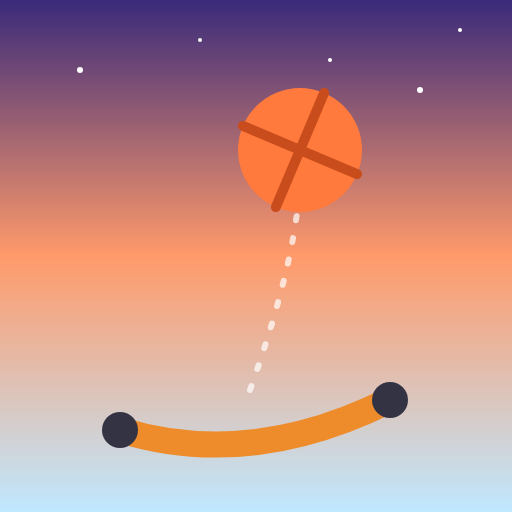
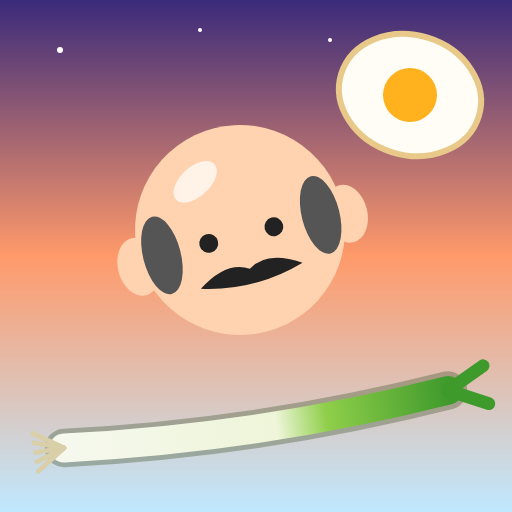
WIP: モチーフをおじさん・長ネギ・目玉焼きに
Claude-Session: https://claude.ai/code/session_018t3fjhh5BvRnQz3QrZFyHj

Changed region(s): [[0.2188, 0.0625, 0.9688, 0.7188], [0.0625, 0.6875, 0.9688, 0.9375], [0.0938, 0.0938, 0.125, 0.125]]

diff --git a/games/line-trampoline/index.html b/games/line-trampoline/index.html
@@ -141,7 +141,7 @@ if (!window.Matter) { $('err').style.display = 'flex'; throw new Error('matter')
 resize();
 
 const { Engine, Bodies, Body, Composite, Events } = Matter;
-const BALL_R = 14, PX_PER_M = 40;
+const BALL_R = 18, PX_PER_M = 40;
 let engine, walls, ball, line, rocks, camY, startY, maxH, state, nextRockY, drag, trail, pops;
 const best = () => store.get('best', 0);
 
@@ -280,8 +280,14 @@ function draw() {
   ctx.save(); ctx.translate(0, -camY);
   // rocks
   for (const r of rocks) {
-    ctx.beginPath(); r.vertices.forEach((v, i) => i ? ctx.lineTo(v.x, v.y) : ctx.moveTo(v.x, v.y)); ctx.closePath();
-    ctx.fillStyle = phase > 2 ? '#8a8aa8' : '#8b7a6b'; ctx.fill(); ctx.strokeStyle = 'rgba(0,0,0,.25)'; ctx.lineWidth = 3; ctx.stroke();
+    // fried egg: wobbly white through the polygon's edge midpoints, yolk in the middle
+    const vs = r.vertices, n = vs.length, mid = i => ({ x: (vs[i].x + vs[(i + 1) % n].x) / 2, y: (vs[i].y + vs[(i + 1) % n].y) / 2 });
+    ctx.beginPath(); let m0 = mid(n - 1); ctx.moveTo(m0.x, m0.y);
+    for (let i = 0; i < n; i++) { const m = mid(i); ctx.quadraticCurveTo(vs[i].x, vs[i].y, m.x, m.y); }
+    ctx.fillStyle = '#fffdf6'; ctx.fill(); ctx.strokeStyle = '#e8c98a'; ctx.lineWidth = 3; ctx.stroke();
+    const yr = Math.hypot(vs[0].x - r.position.x, vs[0].y - r.position.y) * 0.4;
+    ctx.fillStyle = '#ffb21e'; ctx.beginPath(); ctx.arc(r.position.x, r.position.y, yr, 0, 7); ctx.fill();
+    ctx.fillStyle = 'rgba(255,255,255,.7)'; ctx.beginPath(); ctx.arc(r.position.x - yr * 0.35, r.position.y - yr * 0.35, yr * 0.25, 0, 7); ctx.fill();
   }
   // line (trampoline)
   if (line) drawTramp(line.a, line.b, line.used ? Math.sin(line.t / 25) * 12 * (1 - line.t / 350) : 0, line.used ? 1 - line.t / 350 : 1, line.len);
@@ -289,11 +295,10 @@ function draw() {
   // pops
   for (let i = pops.length - 1; i >= 0; i--) { const p = pops[i]; ctx.strokeStyle = `rgba(255,255,255,${1 - p.t / 300})`; ctx.lineWidth = 3; ctx.beginPath(); ctx.arc(p.x, p.y, BALL_R + p.t / 8, 0, 7); ctx.stroke(); }
   // trail & ball
-  trail.forEach((t, i) => { ctx.fillStyle = `rgba(255,120,60,${i / trail.length * 0.3})`; ctx.beginPath(); ctx.arc(t.x, t.y, BALL_R * i / trail.length, 0, 7); ctx.fill(); });
+  trail.forEach((t, i) => { ctx.fillStyle = `rgba(255,205,170,${i / trail.length * 0.35})`; ctx.beginPath(); ctx.arc(t.x, t.y, BALL_R * i / trail.length, 0, 7); ctx.fill(); });
   const bp = drawPos;
   ctx.save(); ctx.translate(bp.x, bp.y); ctx.rotate(ball.angle);
-  ctx.fillStyle = '#ff7a3c'; ctx.beginPath(); ctx.arc(0, 0, BALL_R, 0, 7); ctx.fill();
-  ctx.strokeStyle = '#c94d1c'; ctx.lineWidth = 2.5; ctx.beginPath(); ctx.moveTo(-BALL_R, 0); ctx.lineTo(BALL_R, 0); ctx.moveTo(0, -BALL_R); ctx.lineTo(0, BALL_R); ctx.stroke();
+  drawOji(BALL_R);
   ctx.restore();
   // ready hint: animated finger drawing a line under the ball
   if (state === 'ready' && !drag) {
@@ -317,15 +322,34 @@ function draw() {
   ctx.fillStyle = phase > 2 ? '#5a5a80' : '#7a6a5b'; ctx.fillRect(0, 0, 6, H); ctx.fillRect(W - 6, 0, 6, H);
 
 }
+// bald uncle head (the ball)
+function drawOji(R) {
+  ctx.fillStyle = '#ffd2b0'; ctx.beginPath(); ctx.arc(0, 0, R, 0, 7); ctx.fill();
+  ctx.fillStyle = '#ffd2b0'; for (const sx of [-1, 1]) { ctx.beginPath(); ctx.ellipse(sx * R * 1.02, R * 0.1, R * 0.2, R * 0.28, 0, 0, 7); ctx.fill(); }
+  ctx.fillStyle = '#555'; for (const sx of [-1, 1]) { ctx.beginPath(); ctx.ellipse(sx * R * 0.78, R * 0.05, R * 0.18, R * 0.38, 0, 0, 7); ctx.fill(); }
+  ctx.fillStyle = 'rgba(255,255,255,.7)'; ctx.beginPath(); ctx.ellipse(-R * 0.3, -R * 0.55, R * 0.25, R * 0.14, -0.5, 0, 7); ctx.fill();
+  ctx.fillStyle = '#222'; for (const sx of [-1, 1]) { ctx.beginPath(); ctx.arc(sx * R * 0.32, R * 0.05, R * 0.09, 0, 7); ctx.fill(); }
+  ctx.beginPath(); ctx.moveTo(-R * 0.5, R * 0.45); ctx.quadraticCurveTo(-R * 0.2, R * 0.25, 0, R * 0.38); ctx.quadraticCurveTo(R * 0.2, R * 0.25, R * 0.5, R * 0.45); ctx.quadraticCurveTo(0, R * 0.6, -R * 0.5, R * 0.45); ctx.fill();
+}
+// green onion (the trampoline): roots at the start point, leaves at the end point
 function drawTramp(a, b, sag, alpha, len) {
   const mx = (a.x + b.x) / 2, my = (a.y + b.y) / 2, l = Math.hypot(b.x - a.x, b.y - a.y) || 1;
   const nx = -(b.y - a.y) / l, ny = (b.x - a.x) / l;
-  const s = Math.max(0, Math.min(1, (len - 24) / 300)); // short = hot colour
-  const col = `hsl(${10 + s * 190},85%,55%)`;
-  ctx.save(); ctx.globalAlpha *= alpha;
-  ctx.strokeStyle = col; ctx.lineWidth = 7; ctx.lineCap = 'round';
-  ctx.beginPath(); ctx.moveTo(a.x, a.y); ctx.quadraticCurveTo(mx + nx * sag, my + ny * sag, b.x, b.y); ctx.stroke();
-  ctx.fillStyle = '#334'; for (const p of [a, b]) { ctx.beginPath(); ctx.arc(p.x, p.y, 5, 0, 7); ctx.fill(); }
+  const cx = mx + nx * sag, cy = my + ny * sag;
+  const g = ctx.createLinearGradient(a.x, a.y, b.x, b.y);
+  g.addColorStop(0, '#f6f8ee'); g.addColorStop(0.55, '#eef5d8'); g.addColorStop(0.68, '#8fcf4a'); g.addColorStop(1, '#3f9a2c');
+  ctx.save(); ctx.globalAlpha *= alpha; ctx.lineCap = 'round';
+  ctx.strokeStyle = 'rgba(60,80,40,.35)'; ctx.lineWidth = 12;
+  ctx.beginPath(); ctx.moveTo(a.x, a.y); ctx.quadraticCurveTo(cx, cy, b.x, b.y); ctx.stroke();
+  ctx.strokeStyle = g; ctx.lineWidth = 9;
+  ctx.beginPath(); ctx.moveTo(a.x, a.y); ctx.quadraticCurveTo(cx, cy, b.x, b.y); ctx.stroke();
+  // roots
+  const ux = (a.x - b.x) / l, uy = (a.y - b.y) / l;
+  ctx.strokeStyle = '#d9cfa8'; ctx.lineWidth = 1.5;
+  for (let i = -2; i <= 2; i++) { ctx.beginPath(); ctx.moveTo(a.x, a.y); ctx.lineTo(a.x + ux * 9 + nx * i * 3, a.y + uy * 9 + ny * i * 3); ctx.stroke(); }
+  // split leaf tip
+  ctx.strokeStyle = '#3f9a2c'; ctx.lineWidth = 4;
+  for (const sd of [-1, 1]) { ctx.beginPath(); ctx.moveTo(b.x, b.y); ctx.lineTo(b.x - ux * 12 + nx * sd * 6, b.y - uy * 12 + ny * sd * 6); ctx.stroke(); }
   ctx.restore();
 }
 
